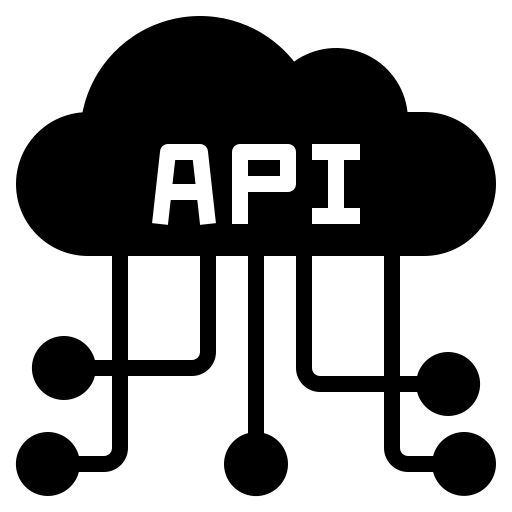
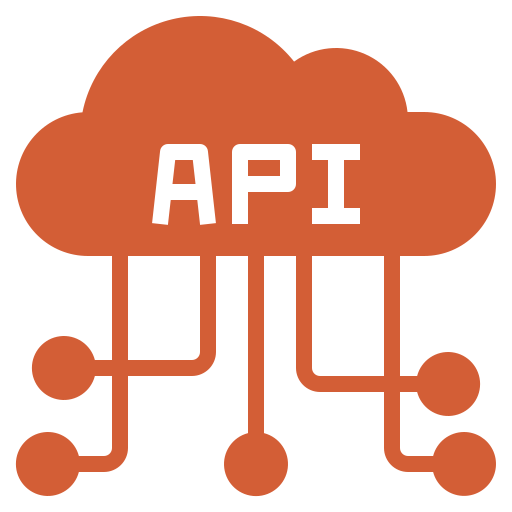
adicionando a API

diff --git a/index.html b/index.html
@@ -201,6 +201,12 @@
                         <p>GIT</p>
                      </div>
                   </li>
+                  <li class="list-inline-item">
+                     <div class="icon-container">
+                        <img src="img/api.png" alt="HTML5 Icon" class="png" width="44" height="44">
+                        <p>APIs</p>
+                     </div>
+                  </li>
                </ul>
                <div class="subheading mb-3">linguagens de programação</div>
                <ul class="list-inline list-icons">
